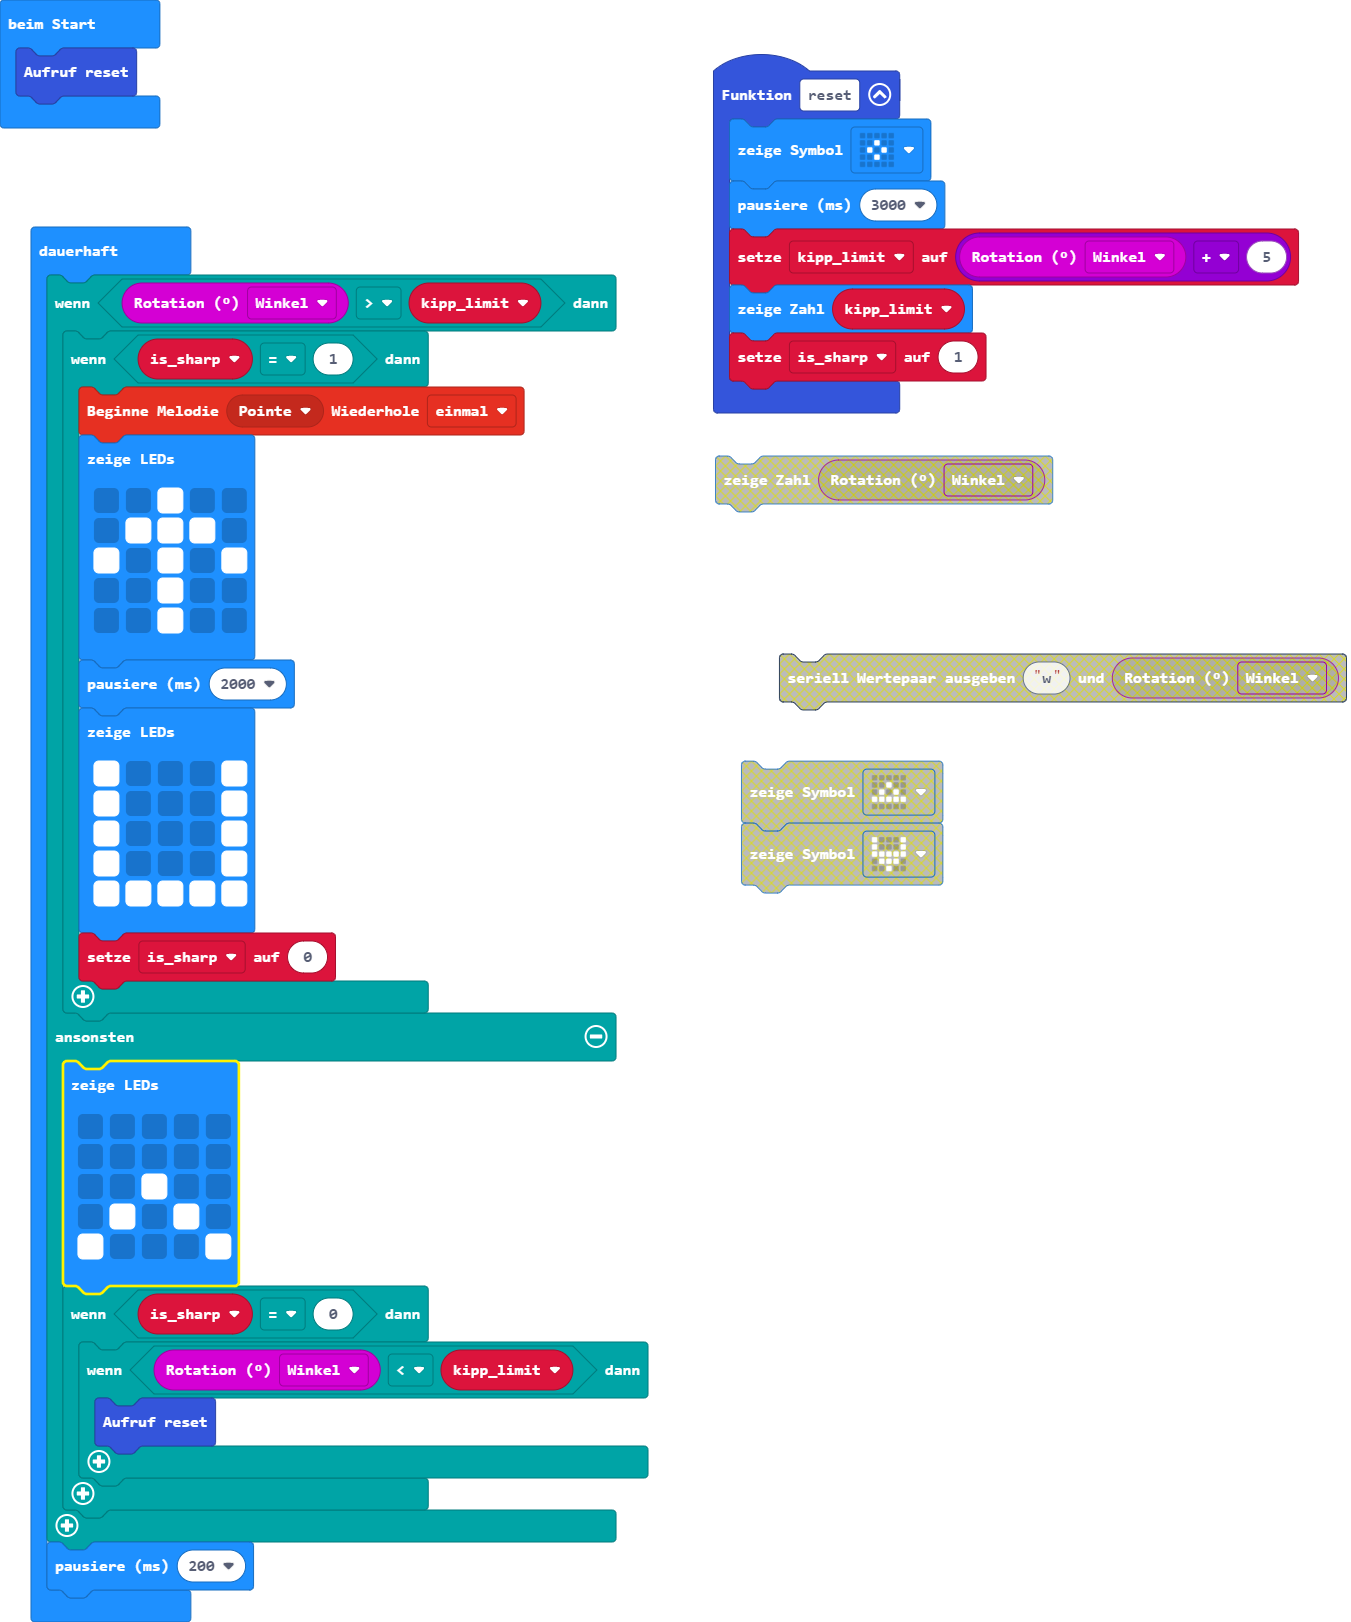
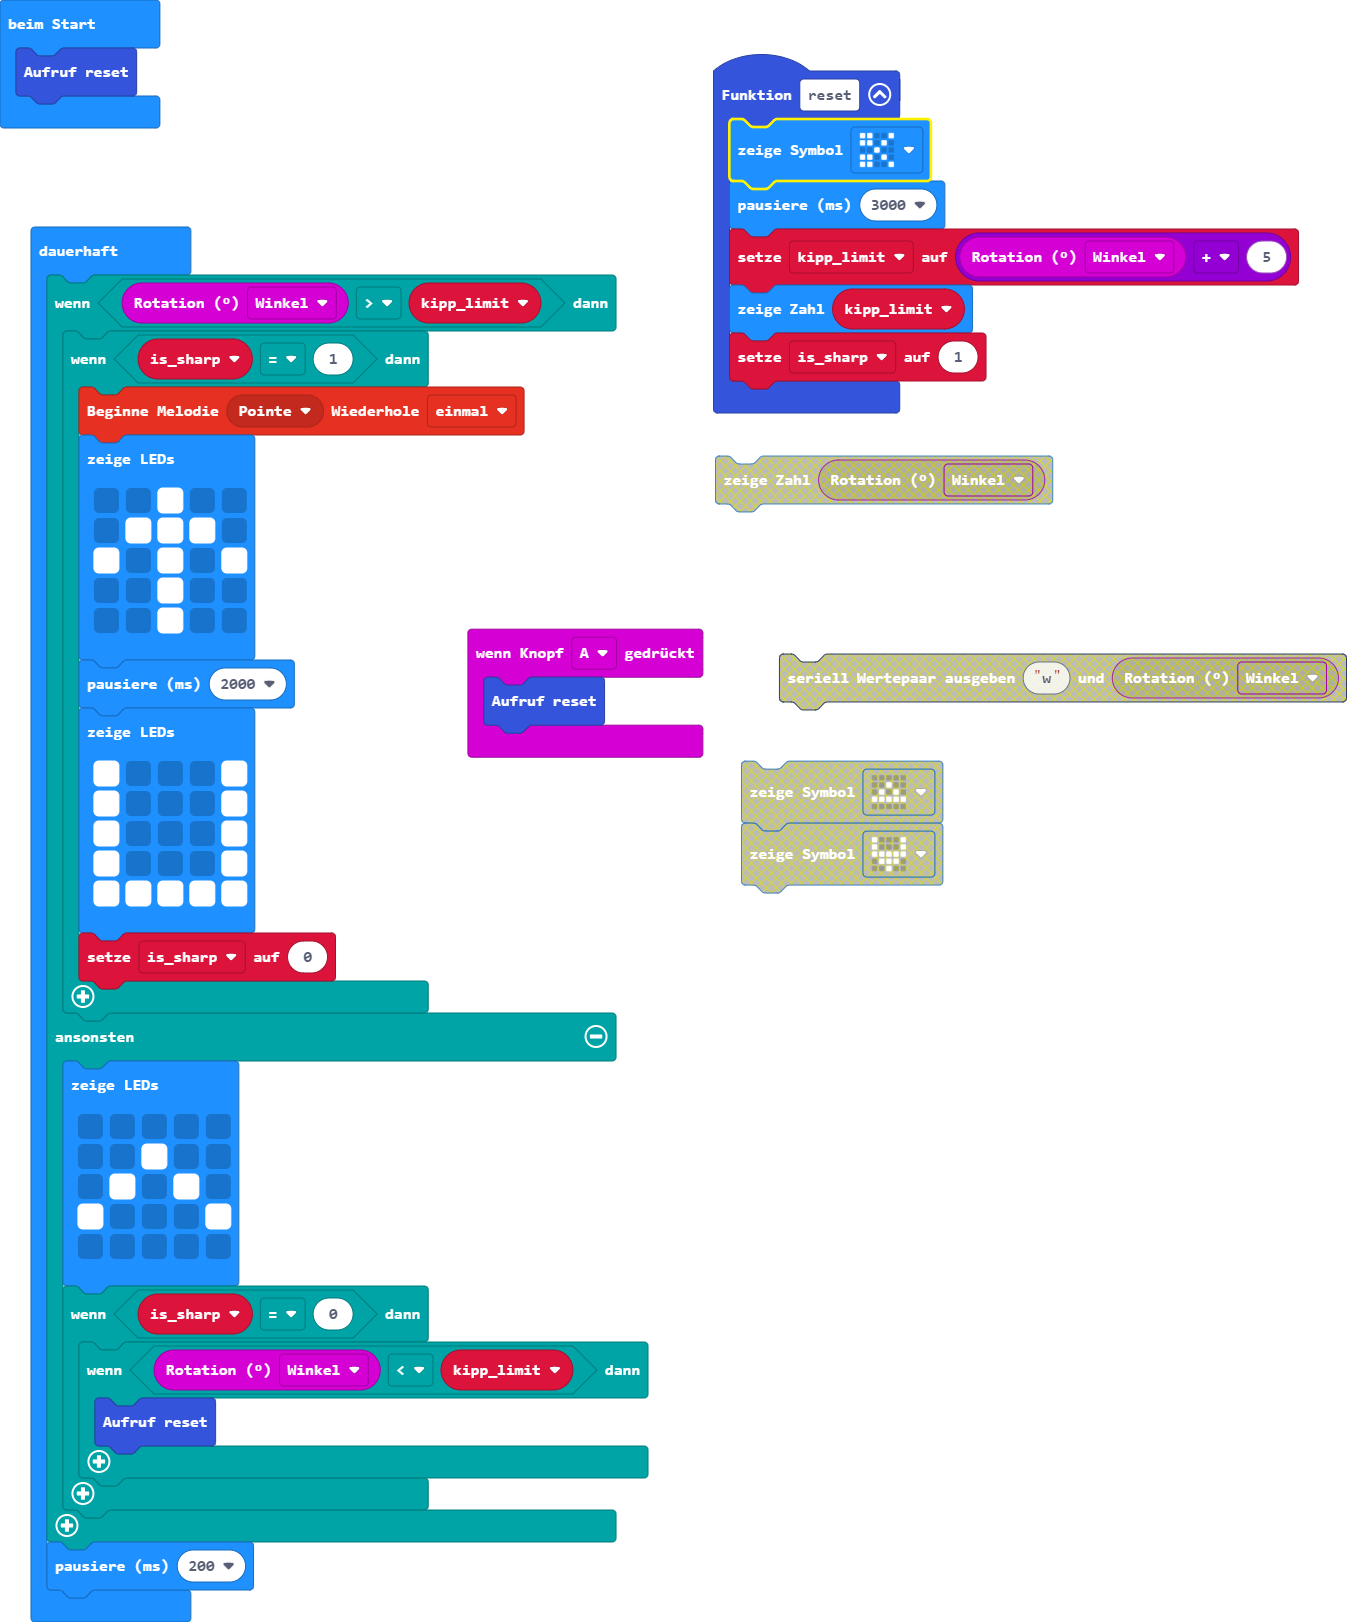
Aktualisiere main.blocks, main.ts

diff --git a/main.ts b/main.ts
@@ -1,5 +1,8 @@
+input.onButtonPressed(Button.A, function () {
+    reset()
+})
 function reset () {
-    basic.showIcon(IconNames.SmallDiamond)
+    basic.showIcon(IconNames.Scissors)
     basic.pause(3000)
     kipp_limit = input.rotation(Rotation.Pitch) + 5
     basic.showNumber(kipp_limit)
@@ -32,10 +35,10 @@ basic.forever(function () {
     } else {
         basic.showLeds(`
             . . . . .
-            . . . . .
             . . # . .
             . # . # .
             # . . . #
+            . . . . .
             `)
         if (is_sharp == 0) {
             if (input.rotation(Rotation.Pitch) < kipp_limit) {
